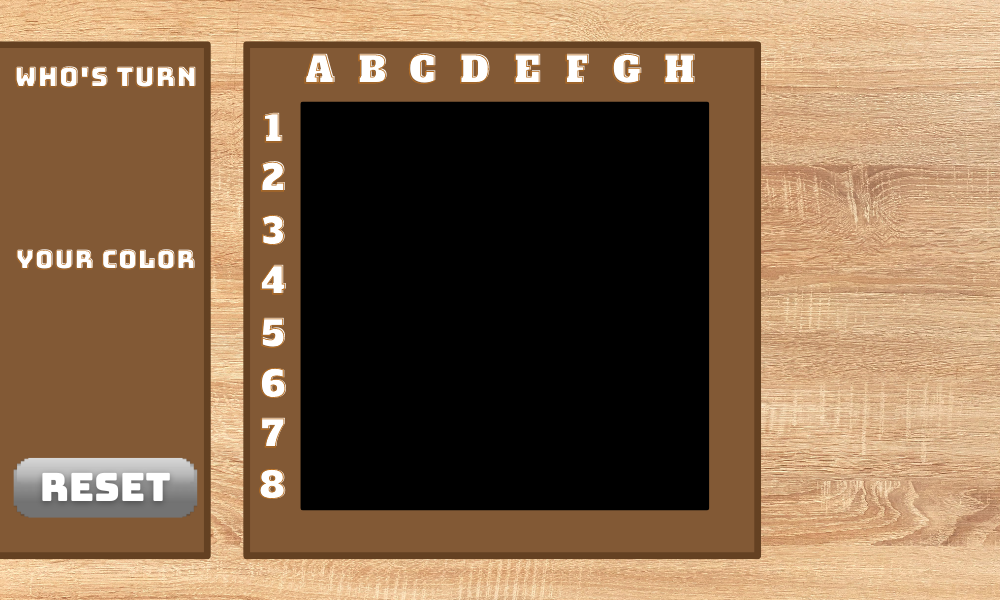
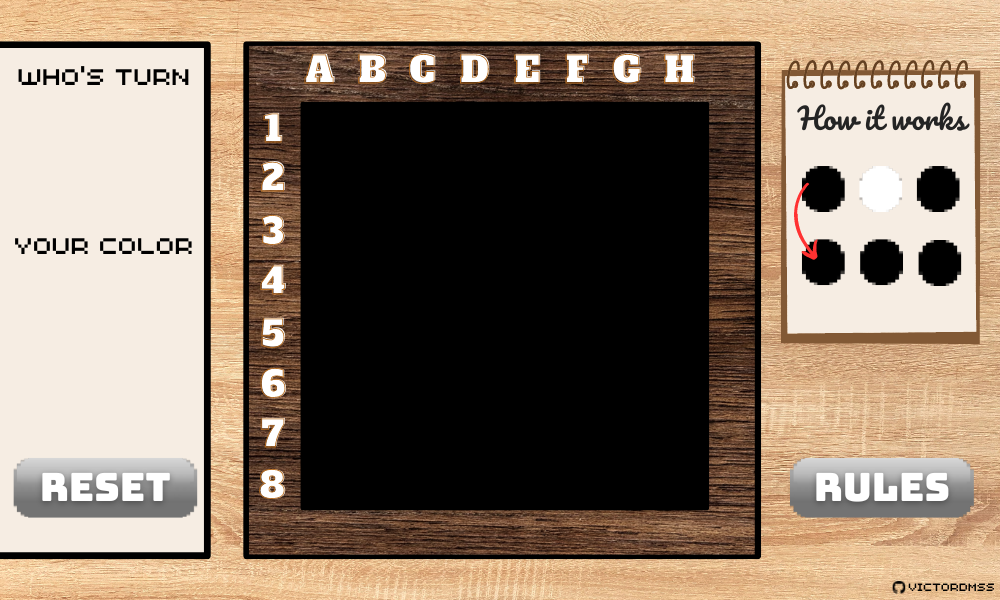
Cleaning code and add comments

diff --git a/board.py b/board.py
@@ -1,42 +1,80 @@
 import numpy as np
 
-DIRECTIONS = [[0, 1], [0, -1], [1, 0], [-1, 0], [1, 1], [-1, -1], [-1, 1], [1, -1]]
-SQUARE_WEIGHTS = [
-    [120, -20,  20,   5,   5,  20, -20, 120],
-    [-20, -40,  -5,  -5,  -5,  -5, -40, -20],
-    [20,  -5,  15,   3,   3,  15,  -5,  20],
-    [5,  -5,   3,   3,   3,   3,  -5,   5],
-    [5,  -5,   3,   3,   3,   3,  -5,   5],
-    [20,  -5,  15,   3,   3,  15,  -5,  20],
-    [-20, -40,  -5,  -5,  -5,  -5, -40, -20],
-    [120, -20,  20,   5,   5,  20, -20, 120],
+# Global constant variable
+
+DIRECTIONS = [  # Represents all the possible directions in a two-dimensional space
+    [0, 1],
+    [0, -1],
+    [1, 0],
+    [-1, 0],
+    [1, 1],
+    [-1, -1],
+    [-1, 1],
+    [1, -1],
 ]
 
+SQUARE_WEIGHTS = [  # Matrix representing the game grid weighted by the importance of the positions to win
+    [120, -20, 20, 5, 5, 20, -20, 120],
+    [-20, -40, -5, -5, -5, -5, -40, -20],
+    [20, -5, 15, 3, 3, 15, -5, 20],
+    [5, -5, 3, 3, 3, 3, -5, 5],
+    [5, -5, 3, 3, 3, 3, -5, 5],
+    [20, -5, 15, 3, 3, 15, -5, 20],
+    [-20, -40, -5, -5, -5, -5, -40, -20],
+    [120, -20, 20, 5, 5, 20, -20, 120],
+]
+
+
+# This class represents the game board, composed of the logical grid and the board display parameters.
 class Board:
-    def __init__(self, row_count, column_count, color):
-        # Board parameters
-        self.row_count = row_count
-        self.column_count = column_count
-        self.grid = np.zeros((self.row_count, self.column_count))
-        self.color = color
-        self.available_moves = []
+    def __init__(self, row_count, column_count, color, screen_size):
+        # Logical board parameters
+        self.row_count = row_count   # Number of rows of the board
+        self.column_count = column_count    # Number of columns of the board
+        self.grid = np.zeros((self.row_count, self.column_count))   # Logical grid of the board
+        self.available_moves = []   # List of all the possible moves for the current player at each moment of the game
         self.square_weight = SQUARE_WEIGHTS
 
-        # Geometrical parameters
-        self.box_size = 50
-        self.radius = int(self.box_size / 2 - 5)
-        self.board_size = (self.row_count * self.box_size, self.column_count * self.box_size)
-        self.left_board_side = 500 - (self.box_size * self.column_count) // 2
-        self.top_board_side = 300 - (self.box_size * self.row_count) // 2
-        self.bottom_board_side = 300 + (self.box_size * self.row_count) // 2
-        self.right_board_side = 500 + (self.box_size * self.column_count) / 2
+        # Display board parameters
+        self.color = color   # Color of the board
+        self.box_size = 50   # Size of each box of the board (they are squares, so we just need one value)
+        self.radius = int(self.box_size / 2 - 5)    # Radius of the board pieces (no matter the color/player)
+        self.board_size = (self.row_count * self.box_size, self.column_count * self.box_size)   # Size of the board
+        # Screen is (1000*600)
+        self.left_board_side = screen_size[0]//2 - (self.box_size * self.column_count) // 2   # Left board display side
+        self.top_board_side = screen_size[1]//2 - (self.box_size * self.row_count) // 2   # Top board display side
+        self.bottom_board_side = screen_size[1]//2 + (self.box_size * self.row_count) // 2   # Bottom board display side
+        self.right_board_side = screen_size[0]//2 + (self.box_size * self.column_count) / 2   # Right board display side
 
-    def is_there_valid_move(self, next_player_key, last_player_key):
-        self.available_moves = []
+    # ------------------------------------------------------------------------------------------------------------------
+    # Security methods
+
+    # This method just return a boolean value that indicates if the position is inside the grid or not
+    def overflow(self, x: int, y: int):
+        return not (0 <= x <= self.column_count - 1 and 0 <= y <= self.row_count - 1)
+
+    # This method just return a boolean value that indicates if the click is inside the display board
+    def is_clicked(self, mouse_position: (float, float)):
+        return self.top_board_side <= mouse_position[1] <= self.bottom_board_side and \
+            self.left_board_side <= mouse_position[0] <= self.right_board_side
+
+    # This method allows to copy the board without memory reference
+    def copy_board(self, screen_size):
+        board = Board(self.row_count, self.column_count, (89, 139, 44), screen_size)
+        board.grid = np.copy(self.grid)
+        return board
+
+    # ------------------------------------------------------------------------------------------------------------------
+    # Processing grid methods
+
+    # This method allows us to determine the moves that are available in the next turn
+    # and to save them in the attribute of the class (available_move : array)
+    def is_there_valid_move(self, next_player_key: int, last_player_key: int):
+        self.available_moves = []   # Reset the available moves from the previous turn
         for row in range(self.row_count):
             for col in range(self.column_count):
-                if self.grid[row][col] == next_player_key:
-                    for x_direction, y_direction in DIRECTIONS:
+                if self.grid[row][col] == next_player_key:  # if a box is filled by the next player
+                    for x_direction, y_direction in DIRECTIONS:    # Let's test in all the directions
                         x = row + x_direction
                         y = col + y_direction
                         if not self.overflow(x, y) and self.grid[x][y] == last_player_key:
@@ -46,50 +84,51 @@ class Board:
                                 x += x_direction
                                 y += y_direction
                             if not self.overflow(x, y) and self.grid[x][y] == 0 and (x, y) not in self.available_moves:
+                                # If this position allows the next player to convert the opponent's pieces
+                                # and the position is on the grid, then it is a valid move. We save it
                                 self.available_moves.append((x, y))
 
-    def count_points(self, piece):
-        s = 0
+    # This method allows us to count the points of a specific player whose key we have passed in parameter
+    def count_points(self, piece_key: int):
+        s = 0  # s represents the amount of piece of his color that the player has on the board
         for row in range(self.row_count):
             for col in range(self.column_count):
-                if self.grid[row][col] == piece:
+                if self.grid[row][col] == piece_key:
                     s += 1
         return s
 
-    def overflow(self, x, y):
-        return not (0 <= x <= self.column_count - 1 and 0 <= y <= self.row_count - 1)
+    # ------------------------------------------------------------------------------------------------------------------
+    # Grid editing methods
 
-    def is_clicked(self, mouse_position):
-        return self.top_board_side <= mouse_position[1] <= self.bottom_board_side and \
-            self.left_board_side <= mouse_position[0] <= self.right_board_side
-
-    def update_grid(self, row_click, column_click, player_key):
-        s = 0
+    # After each move, this method is called to update the grid by flipping the necessary pieces
+    # This function also return the number of pieces that have been flipped
+    def update_grid(self, row_click: int, column_click: int, player_key: int):
+        s = 0   # Represent the number of pieces that will be flipped
         if player_key == 1:
-            other_coin = 2
+            other_key = 2
         else:
-            other_coin = 1
-        for x_direction, y_direction in DIRECTIONS:
+            other_key = 1
+        for x_direction, y_direction in DIRECTIONS:  # Let's test in all the directions
             x = row_click + x_direction
             y = column_click + y_direction
-            if not self.overflow(x, y) and self.grid[x][y] == other_coin:
+            if not self.overflow(x, y) and self.grid[x][y] == other_key:
                 x += x_direction
                 y += y_direction
-                while not self.overflow(x, y) and self.grid[x][y] == other_coin:
+                while not self.overflow(x, y) and self.grid[x][y] == other_key:
                     x += x_direction
                     y += y_direction
                 if not self.overflow(x, y) and self.grid[x][y] == player_key:
+                    # If we find another piece of the same color after passing through pieces of a different colour
+                    # Then we do the same path in backwards while flipping the pieces we find
+                    # until we come back to the starting position
                     while x != row_click or y != column_click:
                         x -= x_direction
                         y -= y_direction
                         s += 1
                         self.grid[x][y] = player_key
-        return s
+        return s    # We return the number of pieces that we flipped
 
+    # This method resets the logical grid of the board
     def reset_board(self):
         self.grid = np.zeros((self.row_count, self.column_count))
 
-    def copy_board(self):
-        board = Board(self.row_count, self.column_count, (89, 139, 44))
-        board.grid = np.copy(self.grid)
-        return board

diff --git a/othello.py b/othello.py
@@ -1,6 +1,11 @@
 import pygame
 from button import Button
 from board import Board
+import webbrowser
+
+RULES_URL = "https://www.worldothello.org/about/about-othello/othello-rules/official-rules/english"
+
+SCREEN_SIZE = (1000, 600)
 
 GAME_STATES = {"LAUNCHING": 'launching',
                "PLAYING": 'playing',
@@ -48,18 +53,19 @@ class Othello:  # Class representing the functioning of the game of Othello
         self.white_button = Button(714, 248, 357, 820)
         # Playing buttons
         self.reset_button = Button(13, 456, 518, 198)
+        self.rules_button = Button(790, 457, 516, 973)
         # Ending buttons
         self.review_button = Button(13, 528, 586, 198)
 
         # Creating board
         self.row_count = row_count
         self.column_count = column_count
-        self.board = Board(self.row_count, self.column_count, (89, 139, 44))
+        self.board = Board(self.row_count, self.column_count, (89, 139, 44), SCREEN_SIZE)
 
         # Initialisation of the game
         # Creation of the screen
         pygame.init()
-        screen = pygame.display.set_mode((1000, 600))
+        screen = pygame.display.set_mode(SCREEN_SIZE)
         pygame.display.set_caption('Abalone')
         # Launching of the game
         self.update_background(screen)
@@ -111,6 +117,8 @@ class Othello:  # Class representing the functioning of the game of Othello
                     exit()
                 if event.type == pygame.MOUSEBUTTONDOWN:  # Click are used to play and place your coin
                     mouse_position = event.pos  # Click position
+                    if self.rules_button.is_clicked(mouse_position):  # If user decides to reset the game
+                        webbrowser.open(RULES_URL)
                     if self.reset_button.is_clicked(mouse_position):  # If user decides to reset the game
                         self.reset_game(screen)
                     if self.board.is_clicked(mouse_position):  # Check If the click is inside the board
@@ -137,7 +145,7 @@ class Othello:  # Class representing the functioning of the game of Othello
         self.current_player = self.white_player["key"]  # White always starts
         self.game_state = GAME_STATES["LAUNCHING"]
         self.update_background(screen)
-        self.board = Board(self.row_count, self.column_count, (89, 139, 44))  # New board
+        self.board = Board(self.row_count, self.column_count, (89, 139, 44), SCREEN_SIZE)  # New board
         self.launching_othello(screen)
 
     def ending_othello(self, screen):  # This function ends the game, calculates who won and brings to the ending page
@@ -226,7 +234,7 @@ class Othello:  # Class representing the functioning of the game of Othello
         best_move = [-1, -1]
         max_point = float('-inf')
         for move in self.board.available_moves:
-            temp_board = self.board.copy_board()
+            temp_board = self.board.copy_board(SCREEN_SIZE)
             print(move)
             temp_board.grid[move[0]][move[1]] = self.current_player
             turned_coin = temp_board.update_grid(move[0], move[1], self.current_player)

diff --git a/button.py b/button.py
@@ -1,10 +1,12 @@
+# This class represents the buttons available in the game
 class Button:
     def __init__(self, left_side, top_side, bottom_side, right_side):
-        self.left_side = left_side
-        self.top_side = top_side
-        self.bottom_side = bottom_side
-        self.right_side = right_side
+        self.left_side = left_side  # Left border side of the button
+        self.top_side = top_side    # Top border side of the button
+        self.bottom_side = bottom_side  # Bottom border side of the button
+        self.right_side = right_side    # Right border side of the button
 
+    # This method just return a boolean value that indicates if the click is inside the button
     def is_clicked(self, mouse_position):
         return self.left_side <= mouse_position[0] <= self.right_side and \
             self.top_side <= mouse_position[1] <= self.bottom_side
